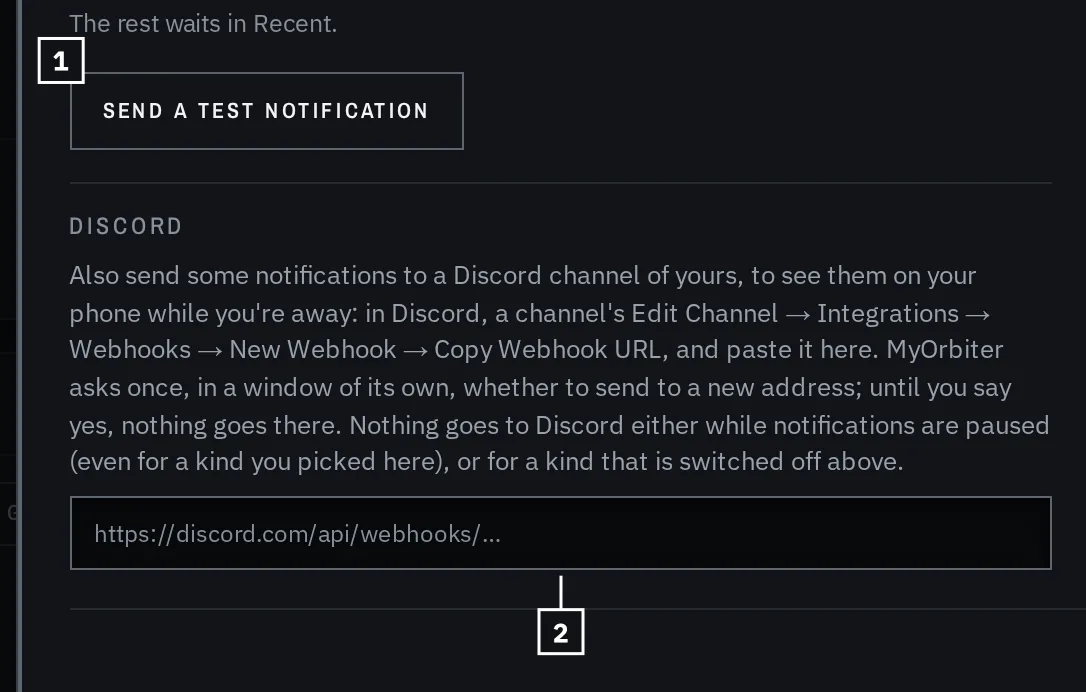
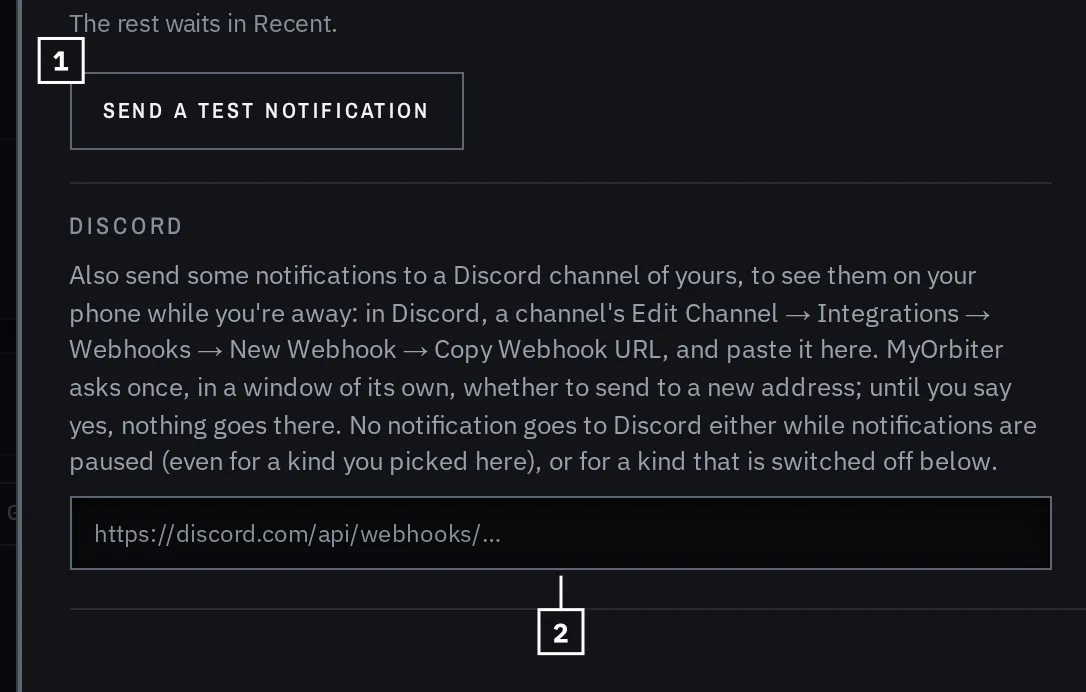
Guide keeps installed mods, Discord paragraph says below, limits sentence covers unpriced listings and own floors

Changed region(s): [[0.0608, 0.6069, 0.9724, 0.698]]

diff --git a/src/lib/tabs/Guide.svelte b/src/lib/tabs/Guide.svelte
@@ -227,7 +227,7 @@
     <ul>
       <li><b>Nothing.</b> MyOrbiter never sends keys, clicks or anything else to Warframe. It reads Warframe's log file and its <code>EE.cfg</code> (for the display mode), and what TennoScope saves. It writes to warframe.market when you ask (a button: Sell, Sold, a price, Post buy order), and by itself only for what you turn on (each is off until you do): Apply automatically in Orders; marking a listing sold when the game log shows you sold it, and giving each player you trade with +rep with your message (both in Settings, Trades, and on Orders); and hiding your last copies while someone whispers you.</li>
       <li data-card="fullmode"><b>Full mode</b> (off until you turn it on: <i>Read my inventory</i> in the first-run steps, the TennoScope panel or Settings): TennoScope reads the game's memory to find your session, read only, then downloads your inventory from Digital Extremes with it. It doesn't write to the game's memory either. Digital Extremes publishes no list of allowed or forbidden third-party programs and leaves using them at your own risk, so Full mode could put your account at risk: that's your call. Without it, TennoScope only reads the log and the reward screen (Overlay mode), and MyOrbiter shows everything that doesn't need your inventory.</li>
-      <li>Mods: MyOrbiter can't see which copy is fitted to a build, so it always keeps your best copy and one more. What it calls spare is past those two (past five for Requiem and Antivirus mods while a lich weapon is left to master).</li>
+      <li>Mods: copies installed in a build are kept and never spare, when TennoScope's read says which they are; besides those it keeps your best copy and one to give away. What it calls spare is past what is kept (past five for Requiem and Antivirus mods while a lich weapon is left to master).</li>
       <li>Everything MyOrbiter records (sales, trades, value over time, settings) stays on this computer. Your warframe.market sign-in is kept in the system keyring (a private file if there isn't one).</li>
       <li><b>No telemetry.</b> <button type="button" class="link" title="Open the page in your browser" aria-busy={links.isOpening(PRIVACY_PAGE.url)} onclick={() => openUrl(PRIVACY_PAGE.url)}><Opening url={PRIVACY_PAGE.url}>{PRIVACY_PAGE.label}</Opening></button> lists every host it talks to, what it sends each one and how often, and every file it keeps.</li>
     </ul>

diff --git a/src/lib/NoticesSheet.svelte b/src/lib/NoticesSheet.svelte
@@ -233,7 +233,7 @@
       </div>
       <div class="discord">
         <span class="register">Discord</span>
-        <p class="dim small">Also send some notifications to a Discord channel of yours, to see them on your phone while you're away: in Discord, a channel's Edit Channel → Integrations → Webhooks → New Webhook → Copy Webhook URL, and paste it here. MyOrbiter asks once, in a window of its own, whether to send to a new address; until you say yes, nothing goes there. Nothing goes to Discord either while notifications are paused (even for a kind you picked here), or for a kind that is switched off above.</p>
+        <p class="dim small">Also send some notifications to a Discord channel of yours, to see them on your phone while you're away: in Discord, a channel's Edit Channel → Integrations → Webhooks → New Webhook → Copy Webhook URL, and paste it here. MyOrbiter asks once, in a window of its own, whether to send to a new address; until you say yes, nothing goes there. No notification goes to Discord either while notifications are paused (even for a kind you picked here), or for a kind that is switched off below.</p>
         <input type="url" placeholder="https://discord.com/api/webhooks/…" bind:value={settings.notifyOptions.discord.url} onchange={() => isDiscordWebhook(settings.notifyOptions.discord.url) && void discordConfirm(settings.notifyOptions.discord.url).catch(() => {})} aria-label="Discord webhook address" class:bad={!!settings.notifyOptions.discord.url && !isDiscordWebhook(settings.notifyOptions.discord.url)} />
         {#if settings.notifyOptions.discord.url && !isDiscordWebhook(settings.notifyOptions.discord.url)}<span class="small warn-text">That isn't a Discord webhook address.</span>{/if}
         {#if isDiscordWebhook(settings.notifyOptions.discord.url)}

diff --git a/src/lib/core/approved.ts b/src/lib/core/approved.ts
@@ -13,8 +13,8 @@ export const AUTO_FLOOR_SHARE = 0.7;
  * raise to them are `planFor` in market.ts.
  */
 const limits = (how: string) =>
-  `On its own it never takes a price under ${Math.round(AUTO_FLOOR_SHARE * 100)}% of the one you last set or approved in MyOrbiter (${how}; a price changed on warframe.market's website doesn't count; it stops there and says so) ` +
-  "and never more than halves one (that waits for you to press Reprice). It never goes under your floors or your minimum price, and it raises a listing that sits under them up to them, within the hour and day limits. " +
+  `On its own it never takes a price under ${Math.round(AUTO_FLOOR_SHARE * 100)}% of the one you last set or approved in MyOrbiter (${how}; a price changed on warframe.market's website doesn't move it, except that a listing never priced in MyOrbiter starts from the price it is listed at; it stops there and says so) ` +
+  "and never more than halves one (that waits for you to press Reprice). It never goes under your own floors or your minimum price, and it raises a listing that sits under one of them up to it, within the hour and day limits. " +
   `A listing already at or under that ${Math.round(AUTO_FLOOR_SHARE * 100)}% mark (rounded up to a whole platinum) stays put until you press Reprice when the price it would go to, the market's or your floor's, is under the mark too`;
 export const AUTO_LIMITS = limits("listing it, typing it, pressing Reprice or applying a Sell spares plan");
 /** The same for a console, where there is no Sell spares. */
